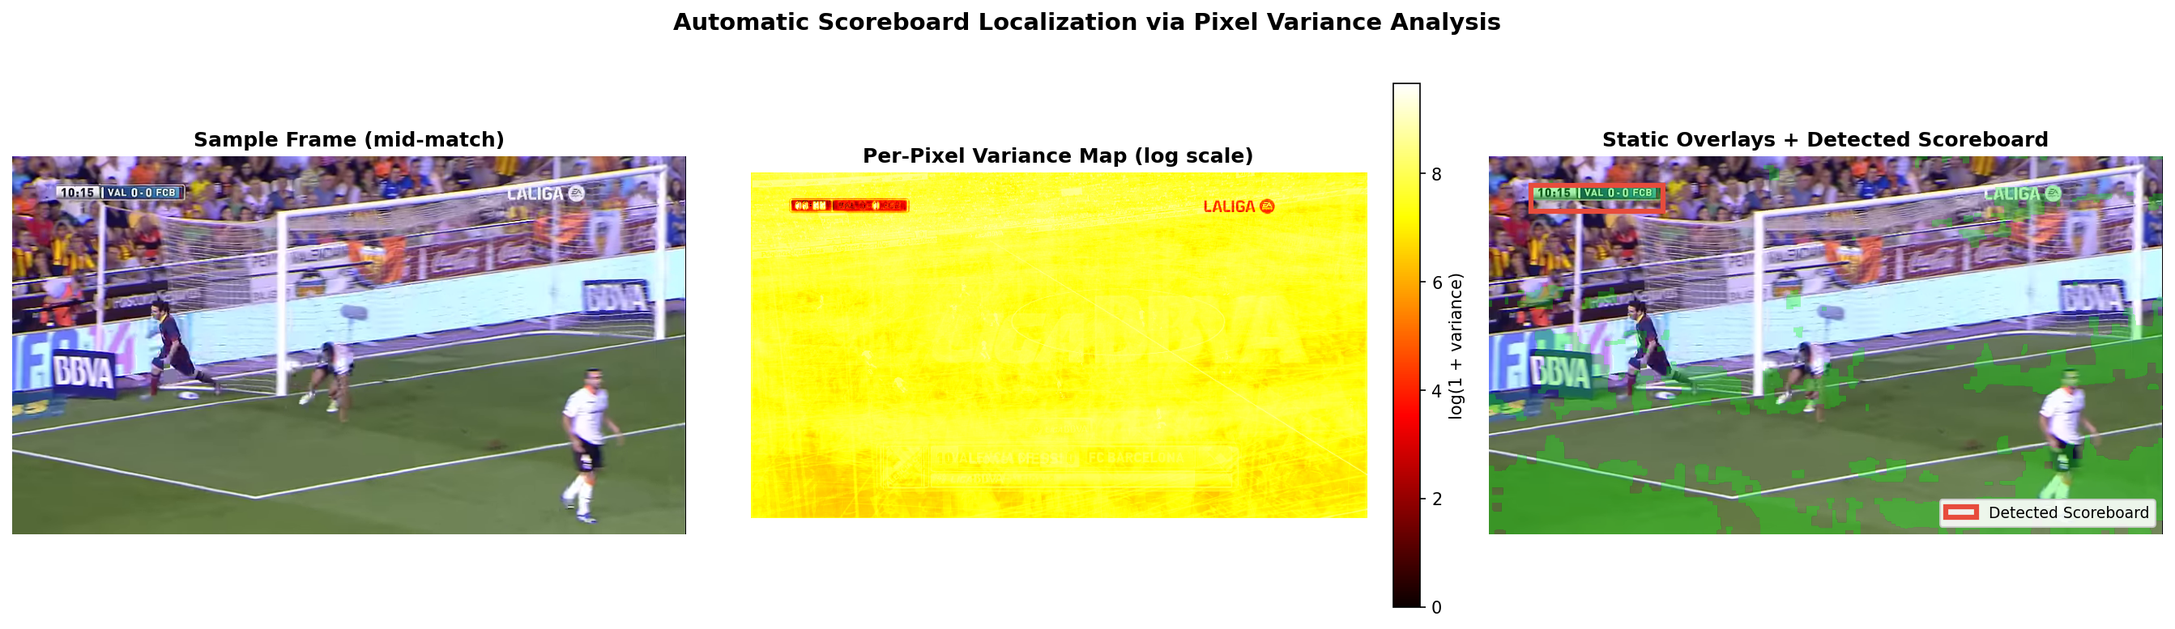
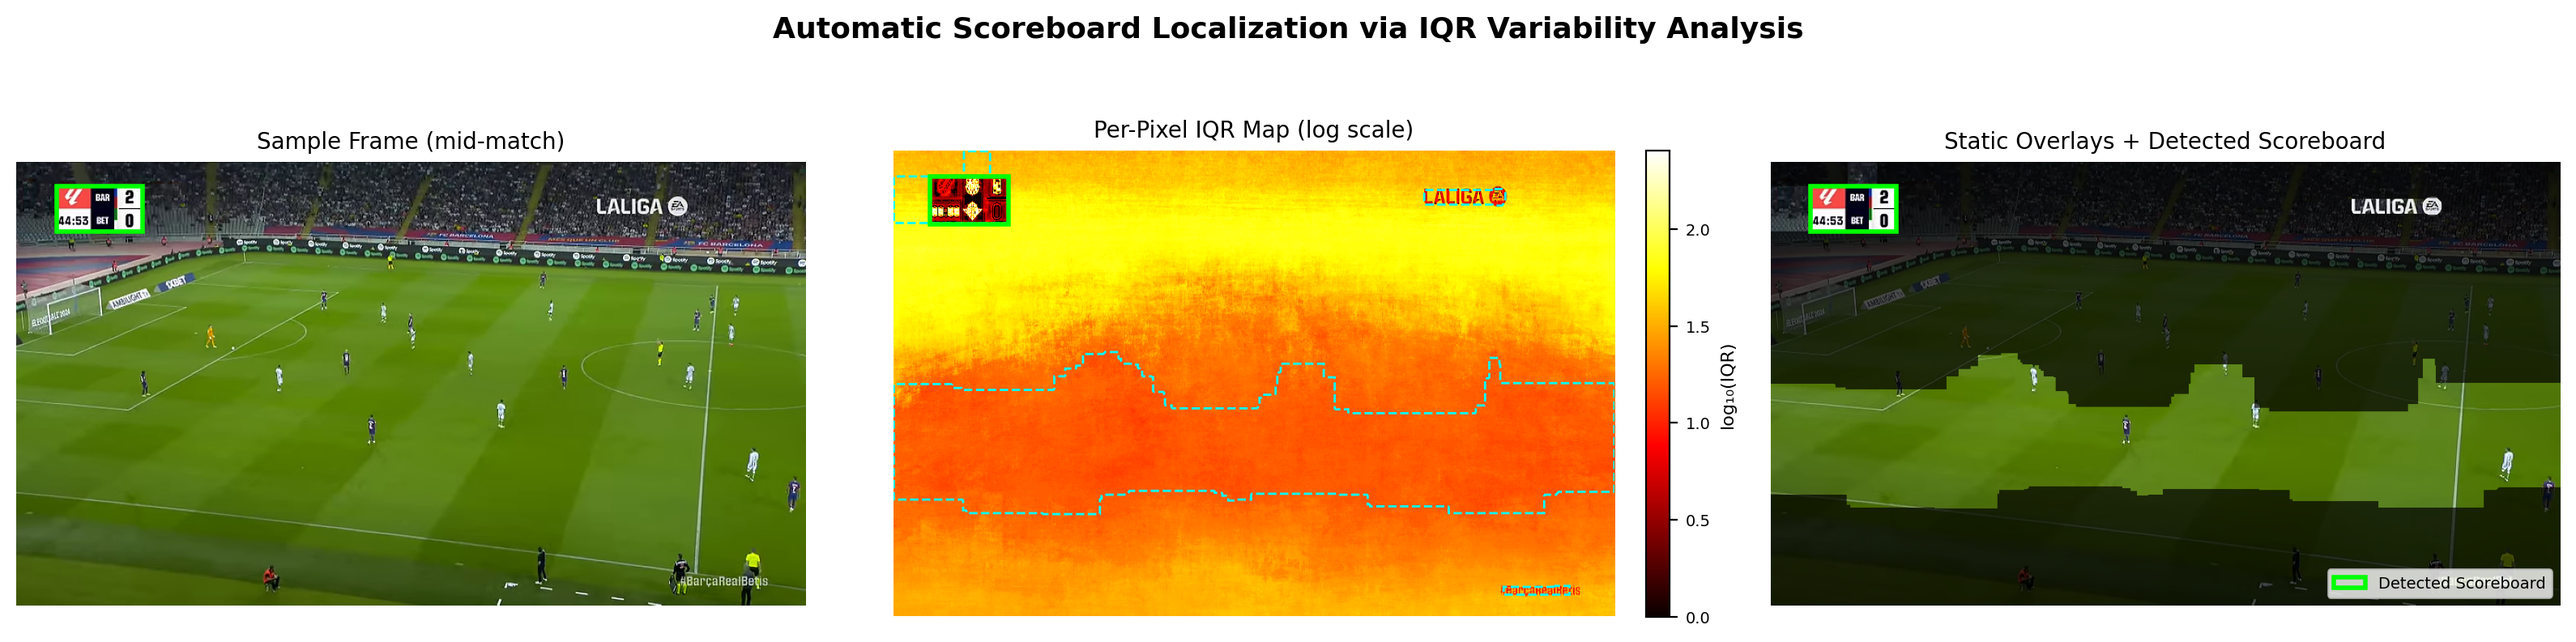
Update scoreboard detection figure to show IQR-based approach
Replace the old variance-based figure with a new 3-panel figure
showing the IQR variability map, overlay mask contours, and detected
scoreboard bbox. Add generation script for reproducibility.

diff --git a/scripts/generate_scoreboard_figure.py b/scripts/generate_scoreboard_figure.py
@@ -1,0 +1,141 @@
+#!/usr/bin/env python3
+"""Generate the scoreboard detection figure for the README.
+
+Creates a 3-panel figure showing:
+  1. Sample mid-match frame with detected scoreboard bbox
+  2. IQR variability map (log scale) with overlay mask contour
+  3. Static overlays mask + detected scoreboard highlighted
+
+Usage:
+    python scripts/generate_scoreboard_figure.py
+    python scripts/generate_scoreboard_figure.py --match-id Match10
+"""
+
+import argparse
+import json
+import sys
+from pathlib import Path
+
+import cv2
+import matplotlib.patches as mpatches
+import matplotlib.pyplot as plt
+import numpy as np
+import yaml
+
+sys.path.insert(0, str(Path(__file__).parent.parent))
+
+from soccer_summarization.config import PipelineConfig
+from soccer_summarization.ocr_scoreboard import ScoreboardDetector
+from soccer_summarization.utils import get_video_properties
+
+
+def main():
+    parser = argparse.ArgumentParser()
+    parser.add_argument("--match-id", default="Match10",
+                        help="Match to use for the figure")
+    parser.add_argument("--output", default="docs/figures/scoreboard_detection.png")
+    args = parser.parse_args()
+
+    config = PipelineConfig.from_yaml("config/default.yaml")
+
+    matches_yaml = Path("config/matches.yaml")
+    with open(matches_yaml) as f:
+        data = yaml.safe_load(f)
+    match_info = data["matches"][args.match_id]
+    video_path = str(Path(config.data_dir) / match_info["video_path"])
+    score = match_info["score"]
+    home = match_info["home_team"]
+    away = match_info["away_team"]
+    title = f"{home} {score} {away}"
+
+    # Run detection
+    det = ScoreboardDetector(config.ocr_scoreboard)
+    iqr_map = det.find_static_overlays(video_path)
+    overlay_mask, raw_mask = det.build_overlay_mask(iqr_map)
+    region = det.find_scoreboard_region(video_path, iqr_map, overlay_mask, raw_mask)
+
+    if region is None:
+        print(f"No scoreboard found for {args.match_id}")
+        return
+
+    # Compute display bbox
+    dx, dy, dw, dh = det._tighten_to_raw(
+        raw_mask, region.x, region.y, region.w, region.h, ignore_edges=True
+    )
+
+    # Get a mid-match frame
+    props = get_video_properties(video_path)
+    cap = cv2.VideoCapture(video_path)
+    cap.set(cv2.CAP_PROP_POS_FRAMES, int(props["total_frames"] * 0.5))
+    ret, frame = cap.read()
+    cap.release()
+    frame_rgb = cv2.cvtColor(frame, cv2.COLOR_BGR2RGB)
+
+    # --- Create figure ---
+    fig, axes = plt.subplots(1, 3, figsize=(16, 4.0))
+    fig.suptitle(f"Automatic Scoreboard Localization via IQR Variability Analysis",
+                 fontsize=13, fontweight="bold", y=0.98)
+
+    # Panel 1: Sample frame with bbox
+    ax = axes[0]
+    ax.imshow(frame_rgb)
+    rect = mpatches.Rectangle((dx, dy), dw, dh, linewidth=2,
+                               edgecolor="lime", facecolor="none")
+    ax.add_patch(rect)
+    ax.set_title("Sample Frame (mid-match)", fontsize=10)
+    ax.axis("off")
+
+    # Panel 2: IQR map (log scale)
+    ax = axes[1]
+    iqr_display = iqr_map.copy().astype(float)
+    iqr_display[iqr_display < 1] = 1  # avoid log(0)
+    im = ax.imshow(np.log10(iqr_display), cmap="hot", aspect="auto")
+    # Draw overlay mask contour
+    contours, _ = cv2.findContours(overlay_mask, cv2.RETR_EXTERNAL,
+                                    cv2.CHAIN_APPROX_SIMPLE)
+    for cnt in contours:
+        cnt_squeezed = cnt.squeeze()
+        if cnt_squeezed.ndim == 2 and len(cnt_squeezed) > 2:
+            polygon = plt.Polygon(cnt_squeezed, fill=False,
+                                   edgecolor="cyan", linewidth=1.0, linestyle="--")
+            ax.add_patch(polygon)
+    # Draw detected scoreboard bbox
+    rect = mpatches.Rectangle((dx, dy), dw, dh, linewidth=2,
+                               edgecolor="lime", facecolor="none")
+    ax.add_patch(rect)
+    ax.set_title("Per-Pixel IQR Map (log scale)", fontsize=10)
+    ax.axis("off")
+    cbar = fig.colorbar(im, ax=ax, fraction=0.046, pad=0.04)
+    cbar.set_label("log₁₀(IQR)", fontsize=8)
+    cbar.ax.tick_params(labelsize=7)
+
+    # Panel 3: Overlay mask + detected scoreboard
+    ax = axes[2]
+    # Show frame dimmed with overlay mask highlighted
+    frame_dimmed = (frame_rgb * 0.3).astype(np.uint8)
+    overlay_colored = frame_dimmed.copy()
+    overlay_colored[overlay_mask > 0] = frame_rgb[overlay_mask > 0]
+    ax.imshow(overlay_colored)
+    rect = mpatches.Rectangle((dx, dy), dw, dh, linewidth=2,
+                               edgecolor="lime", facecolor="none")
+    ax.add_patch(rect)
+    ax.set_title("Static Overlays + Detected Scoreboard", fontsize=10)
+    ax.axis("off")
+
+    # Legend
+    legend_elements = [
+        mpatches.Patch(edgecolor="lime", facecolor="none", linewidth=2,
+                       label="Detected Scoreboard"),
+    ]
+    axes[2].legend(handles=legend_elements, loc="lower right", fontsize=7,
+                   framealpha=0.8)
+
+    plt.tight_layout(rect=[0, 0, 1, 0.94])
+    Path(args.output).parent.mkdir(parents=True, exist_ok=True)
+    fig.savefig(args.output, dpi=200, bbox_inches="tight", facecolor="white")
+    plt.close()
+    print(f"Saved: {args.output}")
+
+
+if __name__ == "__main__":
+    main()
